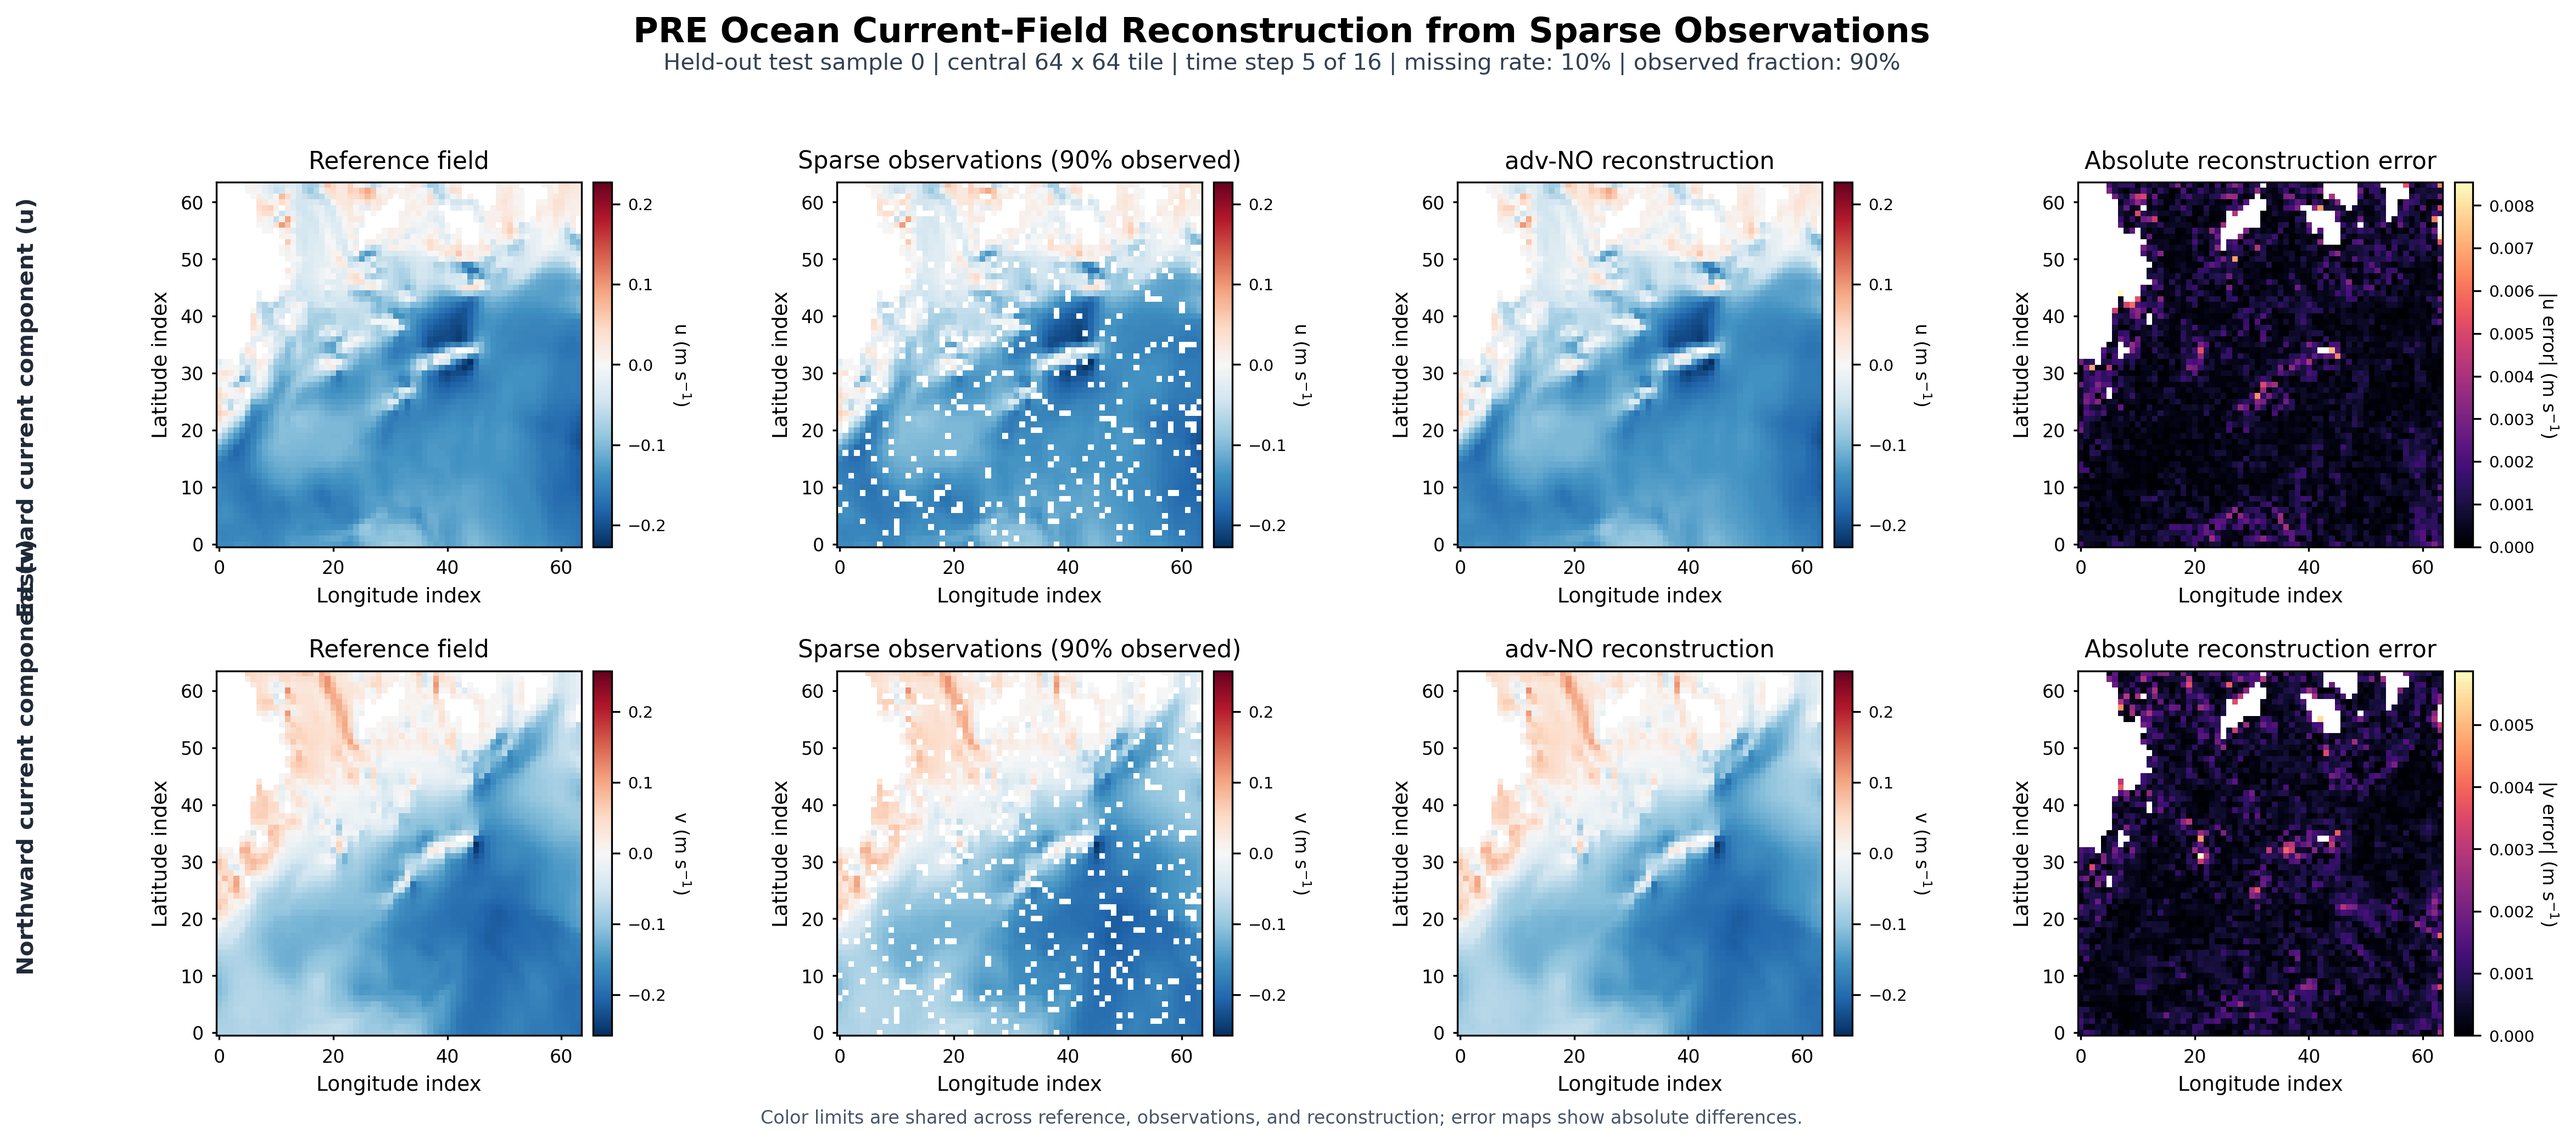
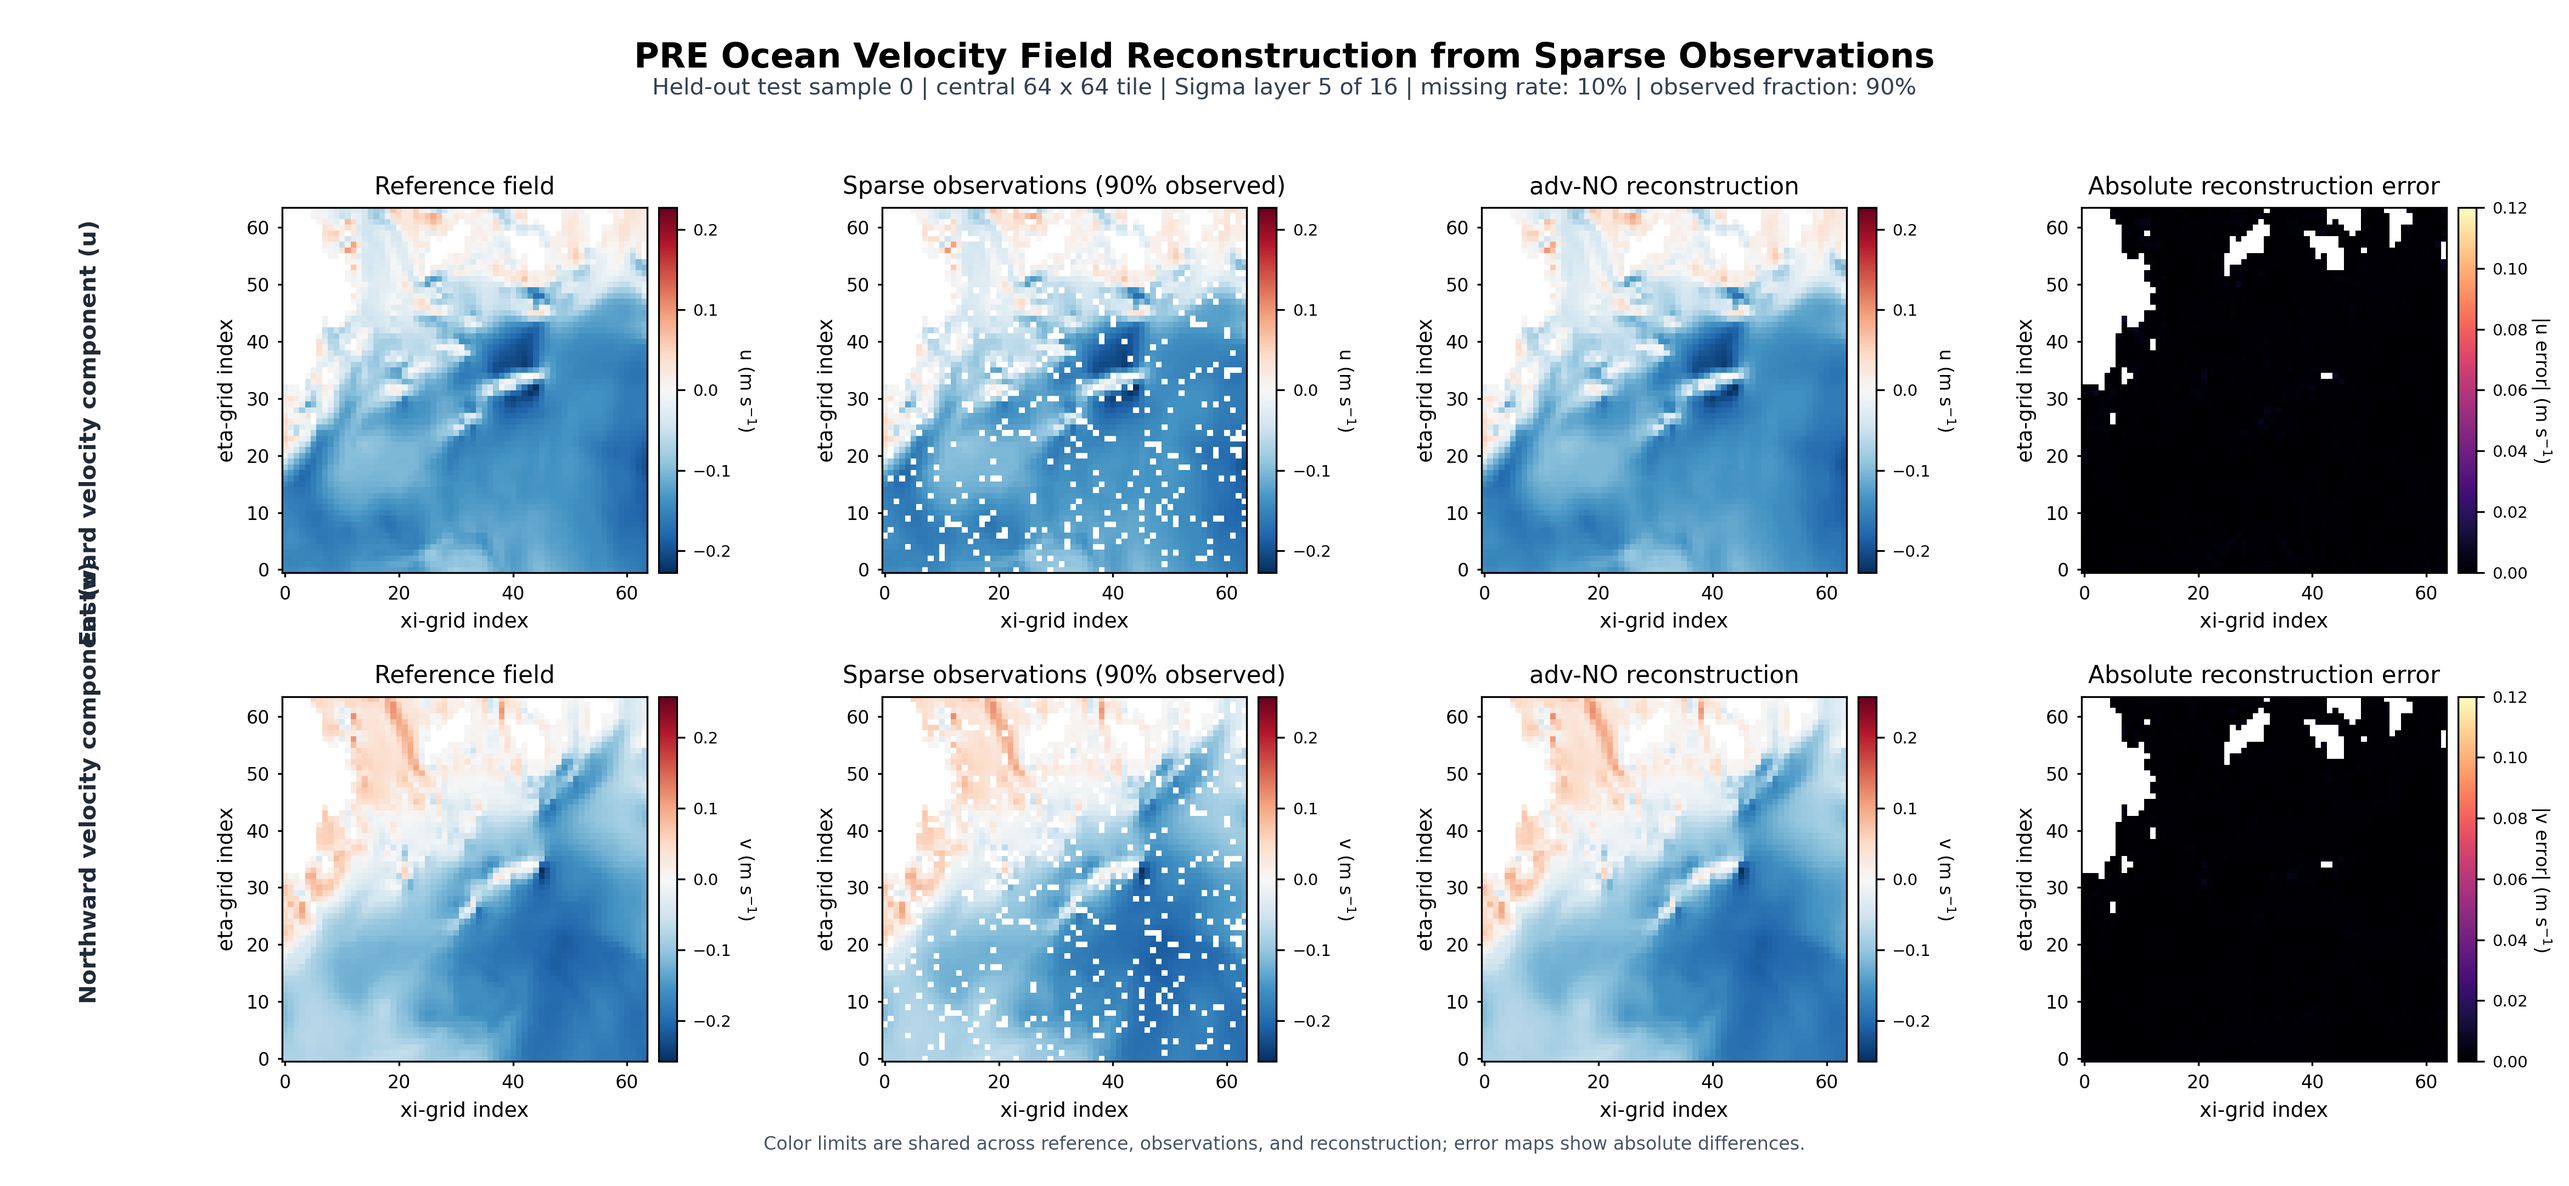
fix: standardize PRE reconstruction figures

diff --git a/3_flow_reconstruction/no/adv_training/plot_sparse_visualization.py b/3_flow_reconstruction/no/adv_training/plot_sparse_visualization.py
@@ -39,6 +39,32 @@ def visualization_labels(title: str, u_label: str, v_label: str) -> tuple[str, s
     return title, u_label, v_label
 
 
+def format_slice_caption(slice_index: int, slice_count: int, slice_label: str) -> str:
+    """Format the fifth-axis label without assuming it is time."""
+    if not 0 <= slice_index < slice_count:
+        raise ValueError(f"slice index must be in [0, {slice_count}), got {slice_index}")
+    return f"{slice_label} {slice_index + 1} of {slice_count}"
+
+
+def axis_labels(x_label: str, y_label: str) -> tuple[str, str]:
+    """Return explicit horizontal and vertical grid-axis labels."""
+    return x_label, y_label
+
+
+def resolve_error_limits(error_limits: np.ndarray, error_vmax: float | None) -> np.ndarray:
+    """Return a shared non-negative error scale for all rows and missing rates."""
+    observed_max = float(np.nanmax(np.asarray(error_limits, dtype=np.float64)))
+    if not np.isfinite(observed_max) or observed_max <= 0.0:
+        observed_max = np.finfo(np.float64).eps
+    if error_vmax is None:
+        value = observed_max
+    else:
+        if error_vmax <= 0.0:
+            raise ValueError("error-vmax must be positive")
+        value = float(error_vmax)
+    return np.full(np.asarray(error_limits).shape, value, dtype=np.float64)
+
+
 def mask_invalid_land(values: np.ndarray, valid: np.ndarray) -> np.ndarray:
     """Set non-ocean cells to NaN without modifying the source array."""
     result = np.asarray(values, dtype=np.float32).copy()
@@ -143,6 +169,8 @@ def render(args):
         np.nanmax(np.abs(reconstruction), axis=(1, 2)),
     )
     error_limits = np.nanmax(absolute_error, axis=(1, 2))
+    error_scales = resolve_error_limits(error_limits, args.error_vmax)
+    x_label, y_label = axis_labels(args.x_label, args.y_label)
     title, u_label, v_label = visualization_labels(args.title, args.u_label, args.v_label)
     plt.rcParams.update({
         "font.family": "DejaVu Sans",
@@ -152,7 +180,7 @@ def render(args):
         "ytick.labelsize": 8,
     })
     figure, axes = plt.subplots(2, 4, figsize=(15.6, 7.2), constrained_layout=False)
-    figure.subplots_adjust(left=0.055, right=0.965, bottom=0.105, top=0.825,
+    figure.subplots_adjust(left=0.085, right=0.965, bottom=0.105, top=0.825,
                           wspace=0.30, hspace=0.34)
 
     for row, component in enumerate(("u", "v")):
@@ -166,26 +194,26 @@ def render(args):
             colorbar.set_label(f"{component} (m s$^{{-1}}$)", fontsize=8, rotation=270,
                                labelpad=11)
             axis.set_title(titles[col], pad=6)
-            axis.set_xlabel("Longitude index")
-            axis.set_ylabel("Latitude index")
+            axis.set_xlabel(x_label)
+            axis.set_ylabel(y_label)
             axis.tick_params(length=2)
 
         axis = axes[row, 3]
         image = axis.imshow(absolute_error[row], cmap=ERROR_CMAP, vmin=0,
-                            vmax=float(error_limits[row]), interpolation="nearest",
+                            vmax=float(error_scales[row]), interpolation="nearest",
                             origin="lower", aspect="equal")
         colorbar = figure.colorbar(image, ax=axis, fraction=0.046, pad=0.025)
         colorbar.ax.tick_params(labelsize=7)
         colorbar.set_label(f"|{component} error| (m s$^{{-1}}$)", fontsize=8,
                            rotation=270, labelpad=11)
         axis.set_title(titles[3], pad=6)
-        axis.set_xlabel("Longitude index")
-        axis.set_ylabel("Latitude index")
+        axis.set_xlabel(x_label)
+        axis.set_ylabel(y_label)
         axis.tick_params(length=2)
 
-    figure.text(0.012, 0.635, u_label, rotation=90,
+    figure.text(0.035, 0.635, u_label, rotation=90,
                 ha="center", va="center", fontsize=10, fontweight="bold", color="#1F2937")
-    figure.text(0.012, 0.340, v_label, rotation=90,
+    figure.text(0.035, 0.340, v_label, rotation=90,
                 ha="center", va="center", fontsize=10, fontweight="bold", color="#1F2937")
 
     figure.suptitle(
@@ -195,7 +223,7 @@ def render(args):
     figure.text(
         0.5, 0.925,
         f"Held-out test sample {args.sample} | central {target.shape[1]} x {target.shape[2]} tile "
-        f"| time step {args.time_index + 1} of {target.shape[3]} "
+        f"| {format_slice_caption(args.time_index, target.shape[3], args.slice_label)} "
         f"| missing rate: {args.mask_ratio:.0%} "
         f"| observed fraction: {1.0 - args.mask_ratio:.0%}",
         ha="center", va="center", fontsize=10, color="#334155",
@@ -205,7 +233,8 @@ def render(args):
                 "error maps show absolute differences.",
                 ha="center", va="center", fontsize=8, color="#475569")
     args.output.parent.mkdir(parents=True, exist_ok=True)
-    figure.savefig(args.output, dpi=300, bbox_inches="tight", facecolor="white")
+    # Keep the physical canvas fixed across missing rates for stable paper/PPT layout.
+    figure.savefig(args.output, dpi=300, facecolor="white")
     plt.close(figure)
 
 
@@ -222,6 +251,11 @@ def build_arg_parser():
     parser.add_argument("--device", default="cuda:0")
     parser.add_argument("--raw-generator", action="store_true",
                         help="Use raw generator weights instead of EMA weights when present")
+    parser.add_argument("--x-label", default="Longitude index")
+    parser.add_argument("--y-label", default="Latitude index")
+    parser.add_argument("--slice-label", default="Time step")
+    parser.add_argument("--error-vmax", type=float,
+                        help="Fixed absolute-error colorbar upper limit in physical units")
     parser.add_argument(
         "--title",
         default="ERA5 Horizontal Wind-Field Reconstruction from Sparse Observations",

diff --git a/tests/test_sparse_visualization_layout.py b/tests/test_sparse_visualization_layout.py
@@ -1,0 +1,55 @@
+import importlib.util
+import sys
+from pathlib import Path
+
+import numpy as np
+import pytest
+
+
+PROJECT_ROOT = Path(__file__).resolve().parents[1]
+PLOT_PATH = PROJECT_ROOT / "3_flow_reconstruction" / "no" / "adv_training" / "plot_sparse_visualization.py"
+
+
+def load_plot_module():
+    sys.path.insert(0, str(PLOT_PATH.parent))
+    spec = importlib.util.spec_from_file_location("plot_sparse_visualization", PLOT_PATH)
+    module = importlib.util.module_from_spec(spec)
+    spec.loader.exec_module(module)
+    return module
+
+
+def test_pre_layout_labels_and_slice_caption():
+    module = load_plot_module()
+    assert module.format_slice_caption(4, 16, "Sigma layer") == "Sigma layer 5 of 16"
+    assert module.axis_labels("xi-grid index", "eta-grid index") == (
+        "xi-grid index",
+        "eta-grid index",
+    )
+
+
+def test_fixed_error_color_limit_is_shared_across_components():
+    module = load_plot_module()
+    limits = module.resolve_error_limits(np.asarray([0.08, 0.06]), 0.12)
+    np.testing.assert_array_equal(limits, np.asarray([0.12, 0.12]))
+    with pytest.raises(ValueError, match="error-vmax"):
+        module.resolve_error_limits(np.asarray([0.08, 0.06]), 0.0)
+
+
+def test_parser_exposes_publication_layout_controls():
+    module = load_plot_module()
+    args = module.build_arg_parser().parse_args(
+        [
+            "--data", "input.h5",
+            "--checkpoint", "checkpoint.pt",
+            "--config", "config.json",
+            "--output", "output.png",
+            "--x-label", "xi-grid index",
+            "--y-label", "eta-grid index",
+            "--slice-label", "Sigma layer",
+            "--error-vmax", "0.12",
+        ]
+    )
+    assert args.x_label == "xi-grid index"
+    assert args.y_label == "eta-grid index"
+    assert args.slice_label == "Sigma layer"
+    assert args.error_vmax == 0.12

diff --git a/docs/results/pre_ragan_pretrained_0to100_ema_bs64/README.md b/docs/results/pre_ragan_pretrained_0to100_ema_bs64/README.md
@@ -11,6 +11,11 @@
 
 每个 JSON 同时保存 `model`、最近邻 `nearest` 和高斯插值 `gaussian` 三种方法，包含 MAE、RMSE、Bias、Relative L2、NRMSE、PSNR、SSIM、Pearson `r` 和 EPE。报告中的主结果使用 `methods.model.missing.macro`。
 
+配套图片统一使用 `15.6 × 7.2 in`、`300 dpi`（`4680 × 2160 px`）画布。PRE
+第五维是垂向 sigma 层，图中标为 `Sigma layer`；空间轴标为 `xi-grid index`
+和 `eta-grid index`。参考场、稀疏观测和重建共用场值色标，u/v 的绝对误差
+图共用固定 `0--0.12 m s^-1` 色标。
+
 | 缺失率 | MAE | RMSE | PSNR (dB) | SSIM | Pearson r |
 | ---: | ---: | ---: | ---: | ---: | ---: |
 | 1% | 0.001696 | 0.003072 | 60.695 | 0.999720 | 0.999798 |

diff --git a/README.md b/README.md
@@ -224,6 +224,11 @@ eastward/northward 流速。最终 PRE 的 7 个 JSON 和 PNG 已整理到
 和 [`docs/figures/`](docs/figures)。两个脚本默认读取 `generator_ema`；只有显式使用
 `--raw-generator` 才会读取原始生成器。
 
+PRE 正式图片使用固定出版参数：`15.6 × 7.2 in`、`300 dpi`（输出
+`4680 × 2160 px`），横纵轴分别标为 `xi-grid index` 和 `eta-grid index`，
+第五维标为 `Sigma layer`；所有缺失率图片的绝对误差 colorbar 统一为
+`0--0.12 m s^-1`，便于跨缺失率比较。
+
 ## 核心结果
 
 所有结果只在有效缺失位置计算。MAE 和 RMSE 的单位为 `m s^-1`，Relative
